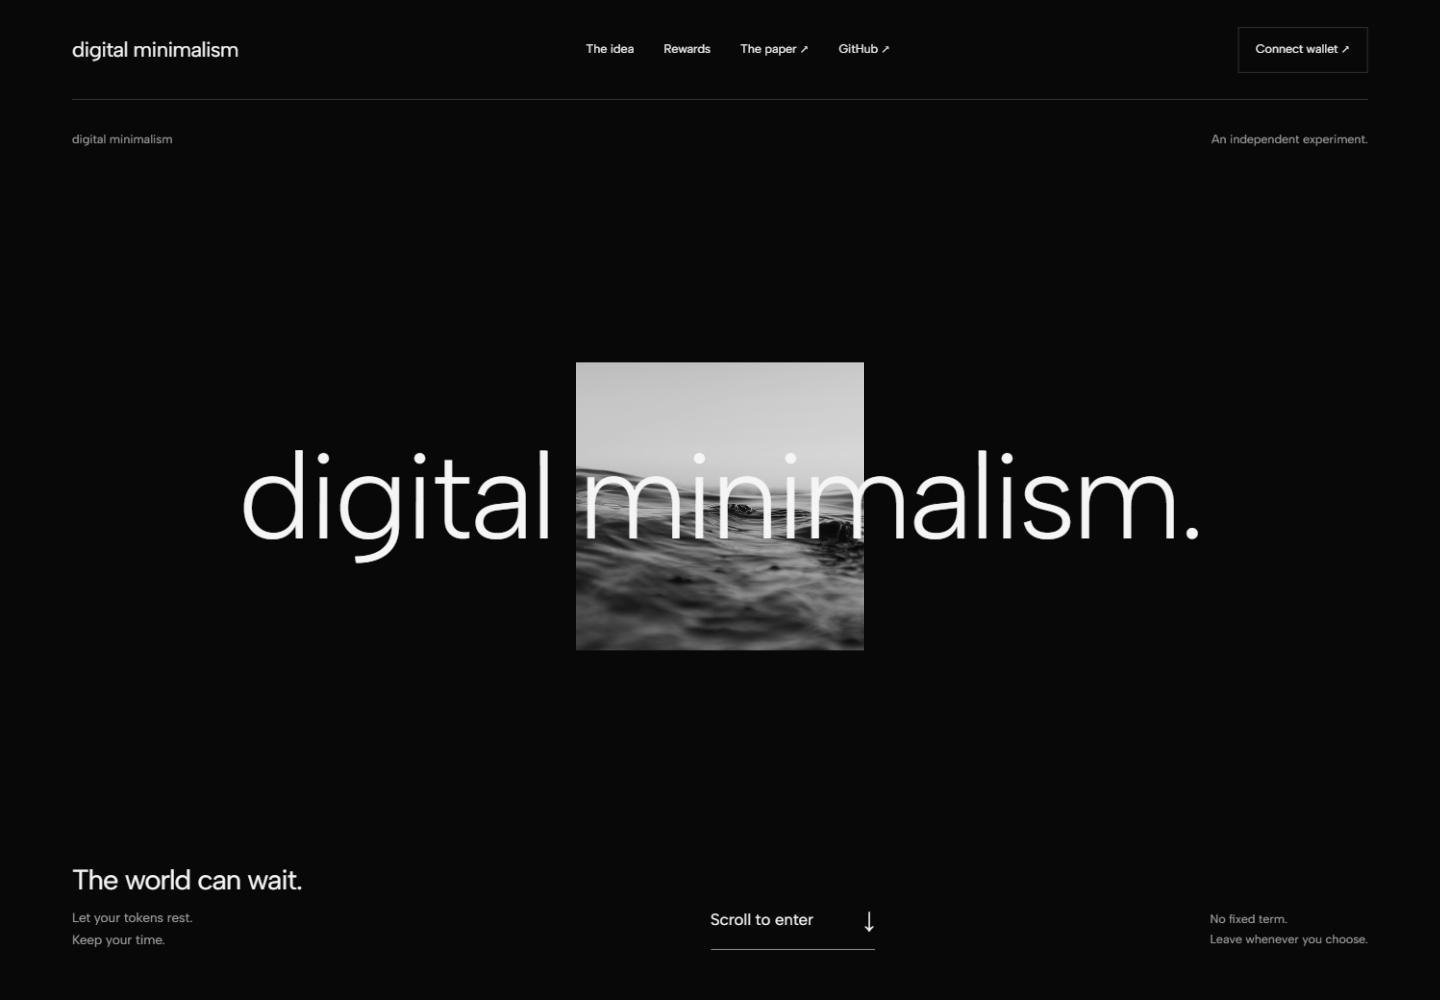
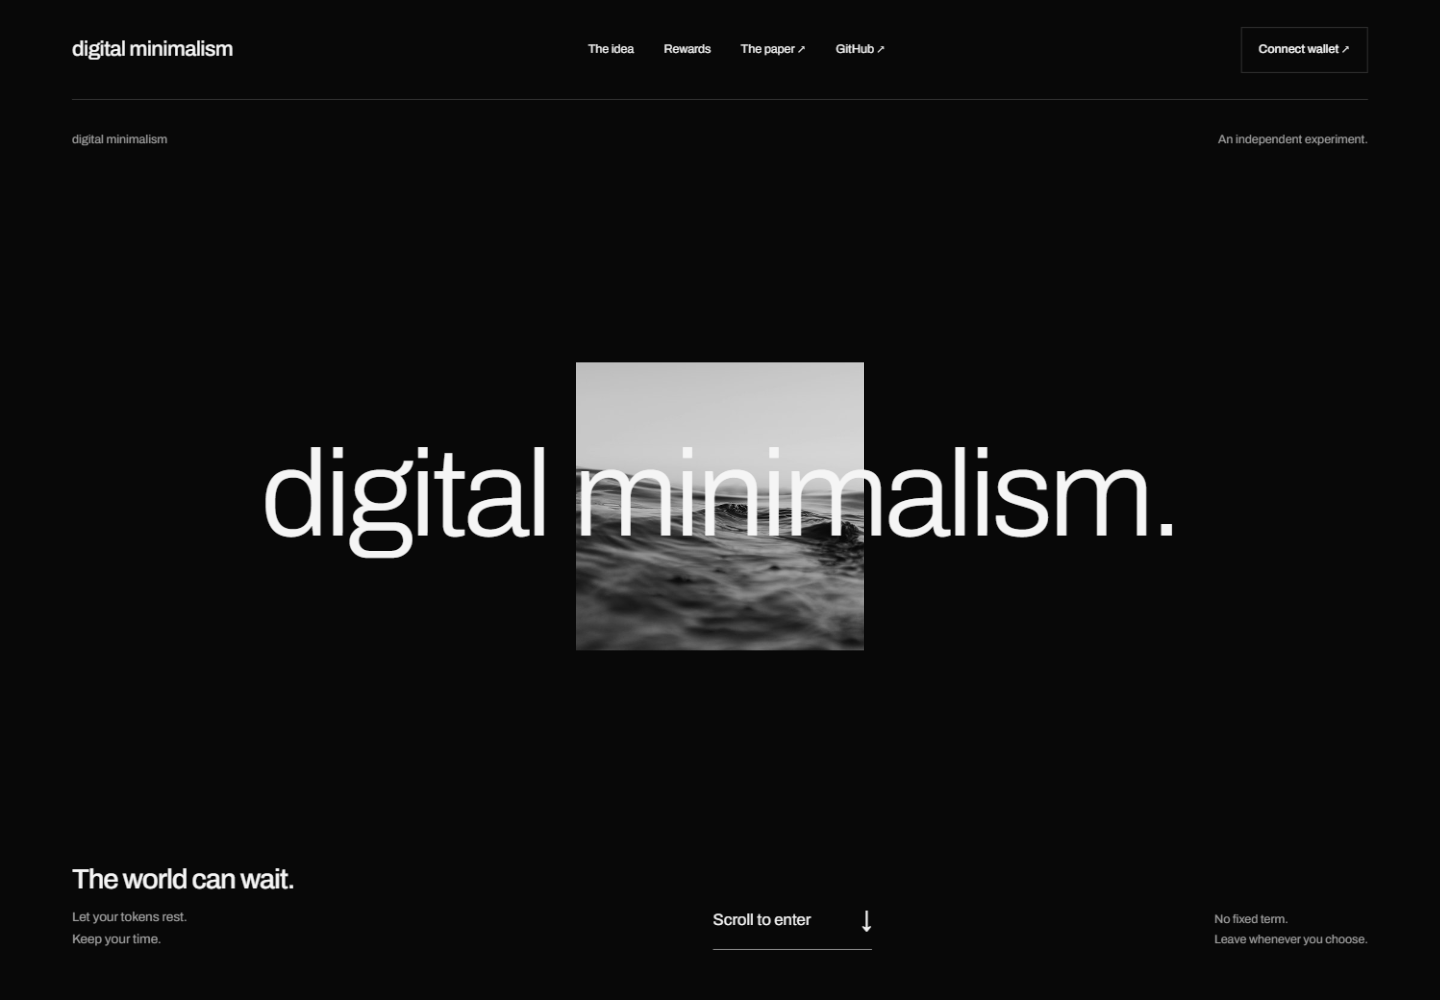
Refine typography with Archivo and clearer administration type hierarchy

diff --git a/web/style.css b/web/style.css
@@ -1,6 +1,6 @@
 @font-face {
-  font-family: 'Albert Sans';
-  src: url('/fonts/albert-sans-latin-variable.woff2') format('woff2');
+  font-family: 'Archivo';
+  src: url('/fonts/archivo-latin-variable.woff2') format('woff2');
   font-weight: 300 600;
   font-style: normal;
   font-display: swap;
@@ -14,7 +14,8 @@
   --gutter: clamp(22px, 5vw, 88px);
   --ease: cubic-bezier(0.22, 1, 0.36, 1);
   color-scheme: dark;
-  font-family: 'Albert Sans', 'Helvetica Neue', Arial, sans-serif;
+  font-family: 'Archivo', 'Helvetica Neue', Arial, sans-serif;
+  font-kerning: normal;
   font-synthesis: none;
   font-optical-sizing: auto;
 }
@@ -114,7 +115,7 @@ h1,
 h2,
 h3 {
   text-wrap: balance;
-  font-weight: 400;
+  font-weight: 500;
 }
 h1 {
   font-size: clamp(32px, 4vw, 56px);
@@ -195,6 +196,7 @@ strong {
 }
 .wallet-button {
   font-size: 12px;
+  font-weight: 500;
   max-width: 220px;
 }
 .hero {
@@ -804,11 +806,38 @@ dialog p {
   max-width: 700px;
 }
 .admin-block h2 {
-  font-size: 24px;
+  font-size: 1.375rem;
+  font-weight: 500;
+  letter-spacing: -0.015em;
 }
 .admin-block p {
-  font-size: 13px;
-  color: var(--muted);
+  font-size: 0.9375rem;
+  line-height: 1.7;
+  color: #bdbdbd;
+  max-width: 65ch;
+}
+.admin-section > h1 {
+  font-size: 2.25rem;
+  font-weight: 500;
+  letter-spacing: -0.025em;
+  line-height: 1.2;
+}
+.admin-block label,
+.admin-block button,
+.admin-balances {
+  font-size: 0.875rem;
+  line-height: 1.5;
+}
+.admin-block label,
+.admin-block button {
+  font-weight: 500;
+}
+.admin-block input {
+  font-size: 1rem;
+  letter-spacing: 0;
+}
+.admin-balances dd {
+  font-variant-numeric: tabular-nums;
 }
 .admin-block form {
   margin-top: 25px;
@@ -1099,7 +1128,7 @@ dialog p {
 /* digital minimalism is the project; DM is its token. */
 .wordmark {
   font-size: 21px;
-  font-weight: 400;
+  font-weight: 500;
   letter-spacing: -0.025em;
   white-space: nowrap;
 }
@@ -1299,7 +1328,7 @@ dialog p {
 }
 .world-content .participation-copy h2 {
   font-size: clamp(38px, 4.2vw, 60px);
-  font-weight: 300;
+  font-weight: 400;
   line-height: 1.1;
   letter-spacing: -0.025em;
 }

diff --git a/web/index.html b/web/index.html
@@ -17,7 +17,7 @@
     <link rel="icon" href="/favicon.svg" />
     <link
       rel="preload"
-      href="/fonts/albert-sans-latin-variable.woff2"
+      href="/fonts/archivo-latin-variable.woff2"
       as="font"
       type="font/woff2"
       crossorigin

diff --git a/DESIGN.md b/DESIGN.md
@@ -1,6 +1,6 @@
 # DM visual system
 
-Reading this as a redesign for ordinary token holders: quiet, monochrome, spatial branding with familiar product controls. Native HTML/CSS, self-hosted Albert Sans and bundled viem retain the small static-site architecture. Design variance 6/10; motion intensity 6/10 at the scroll entrance and 2/10 in the product; visual density 3/10 on brand surfaces, 5/10 inside the participation form.
+Reading this as a redesign for ordinary token holders: quiet, monochrome, spatial branding with familiar product controls. Native HTML/CSS, self-hosted Archivo and bundled viem retain the small static-site architecture. Design variance 6/10; motion intensity 6/10 at the scroll entrance and 2/10 in the product; visual density 3/10 on brand surfaces, 5/10 inside the participation form.
 
 ## Preserve
 
@@ -12,7 +12,7 @@ Remove terminal syntax, CLI installation and burn ritual. Replace with a visible
 
 ## Typography and shape
 
-Albert Sans 300–600 self-hosted with its OFL license. Body 16px/1.65; functional labels, balance captions, field notes, protocol status and transaction details 14px/1.65. Large identity lettering uses weight 300 and -0.03em tracking; participation headings also use weight 300, with regular body text and medium control labels. Large identity lettering is a brand graphic, not a functional heading. Square controls and surfaces, no decorative shadows or gradient treatments. Text uses sentence case; financial values preserve exact wallet/contract case where useful.
+Archivo 300–600 self-hosted with its OFL license. Body 16px/1.65; functional labels, balance captions, field notes, protocol status and transaction details 14px/1.65. Large identity lettering uses weight 300 and -0.03em tracking; participation headings use weight 400, with regular body text and medium control labels. Administration uses a 36px/500 title, 22px/500 section headings, 15px/1.7 explanatory copy and 14px/500 form labels. Wallet and balance numbers use tabular figures. Large identity lettering is a brand graphic, not a functional heading. Square controls and surfaces, no decorative shadows or gradient treatments. Text uses sentence case; financial values preserve exact wallet/contract case where useful.
 
 ## Motion and accessibility
 
@@ -24,4 +24,4 @@ Below 760px, participation stacks; process steps become a vertical sequence; pro
 
 ## Assets
 
-Ocean fallback photograph: https://images.unsplash.com/photo-1518837695005-2083093ee35b, local web/images/ocean.jpg. Albert Sans: https://github.com/usted/Albert-Sans, self-hosted under SIL OFL with the license in web/fonts/albert-sans-OFL.txt. No remote analytics, scripts or font requests. Repository cover is native vector typography, not a final logo.
+Ocean fallback photograph: https://images.unsplash.com/photo-1518837695005-2083093ee35b, local web/images/ocean.jpg. Archivo: https://github.com/Omnibus-Type/Archivo, self-hosted under SIL OFL with the license in web/fonts/archivo-OFL.txt. No remote analytics, scripts or font requests. Repository cover is native vector typography, not a final logo.

diff --git a/PRODUCT.md b/PRODUCT.md
@@ -16,7 +16,7 @@ Project: digital minimalism (lowercase). Token: DM (uppercase). Flexible deposit
 
 Retain the existing black/white, generous negative space, ocean photograph and oversized typographic identity. Use a lowercase digital minimalism wordmark until final artwork arrives. No end-user terminal or CLI. Use familiar buttons and forms with exact labels; no decorative dashboards, neon, gradients, forced tours, daily visits or gamified urgency.
 
-Public surface: keep the newer photographic circular halftone background and restore only the preceding layout and section organization. The supplied reference-image layout is withdrawn; its newer grain effect is retained. Native scrolling expands the photograph into that dot screen. Enter directly into the participation surface, with no intermediary action menu. Keep the texture outside an opaque dark reading surface; it must not pass through product text. Use Albert Sans with light display type, 16px body text and 14px functional notes. Preserve the two-column desktop participation layout and form-first mobile layout, without a nested form card. Only Participate / Rewards / About navigation. Keep a visible participation form, optional three-step guide, consistent-block rewards leaderboard, sourced project essay, funding records, contract addresses, FAQ and paper. Admin direct route: /admin, no public menu promotion. Review before signatures. Wallet and chain changes invalidate a review. Loading, empty, disconnected, unavailable, pre-launch and paused states must all be honest.
+Public surface: keep the newer photographic circular halftone background and restore only the preceding layout and section organization. The supplied reference-image layout is withdrawn; its newer grain effect is retained. Native scrolling expands the photograph into that dot screen. Enter directly into the participation surface, with no intermediary action menu. Keep the texture outside an opaque dark reading surface; it must not pass through product text. Use Archivo with light display type, 16px body text and 14px functional notes. Preserve the two-column desktop participation layout and form-first mobile layout, without a nested form card. Only Participate / Rewards / About navigation. Keep a visible participation form, optional three-step guide, consistent-block rewards leaderboard, sourced project essay, funding records, contract addresses, FAQ and paper. Admin direct route: /admin, no public menu promotion. Review before signatures. Wallet and chain changes invalidate a review. Loading, empty, disconnected, unavailable, pre-launch and paused states must all be honest.
 
 ## Voice
 

diff --git a/README.md b/README.md
@@ -40,7 +40,7 @@ flowchart LR
 
 ## An interface you can put down
 
-A native scroll entrance expands the ocean photograph into the newer photographic halftone background. The preceding section layout opens directly into a dark reading surface with ordinary forms: deposit, withdraw, collect. Texture stays outside the text surface. Exact-amount approvals, transaction review, a consistent-block rewards leaderboard, funding records and an administrator launch panel. No terminal or end-user CLI. Albert Sans, image and scripts are served locally; no analytics or tracking cookies.
+A native scroll entrance expands the ocean photograph into the newer photographic halftone background. The preceding section layout opens directly into a dark reading surface with ordinary forms: deposit, withdraw, collect. Texture stays outside the text surface. Exact-amount approvals, transaction review, a consistent-block rewards leaderboard, funding records and an administrator launch panel. No terminal or end-user CLI. Archivo, image and scripts are served locally; no analytics or tracking cookies.
 
 The project name is **digital minimalism** (lowercase); its token is **DM** (uppercase). The logo is a provisional typographic mark while final brand assets are prepared. The code builds into an honest pre-launch state until a new deployment manifest is published. No legacy deployment is connected.
 
@@ -93,6 +93,6 @@ The administrator can pause **new deposits only** and transfer the role through 
 
 - [Digital minimalism, Vitalik Buterin, 31 October 2026](https://vitalik.eth.limo/general/2026/10/31/digital_minimalism.html).
 - [Stockereum official documentation](https://stockereum.com/docs); [integration verification](docs/STOCKEREUM.md).
-- Albert Sans (active), Manrope and IBM Plex fonts: SIL Open Font License, license files in `web/fonts/`.
+- Archivo (active), Albert Sans, Manrope and IBM Plex fonts: SIL Open Font License, license files in `web/fonts/`.
 - [Ocean image on Unsplash](https://images.unsplash.com/photo-1518837695005-2083093ee35b), stored locally with monochrome treatment.
 - Code: [MIT](LICENSE). Maintained under [DigitalMinimalism0](https://github.com/DigitalMinimalism0).
